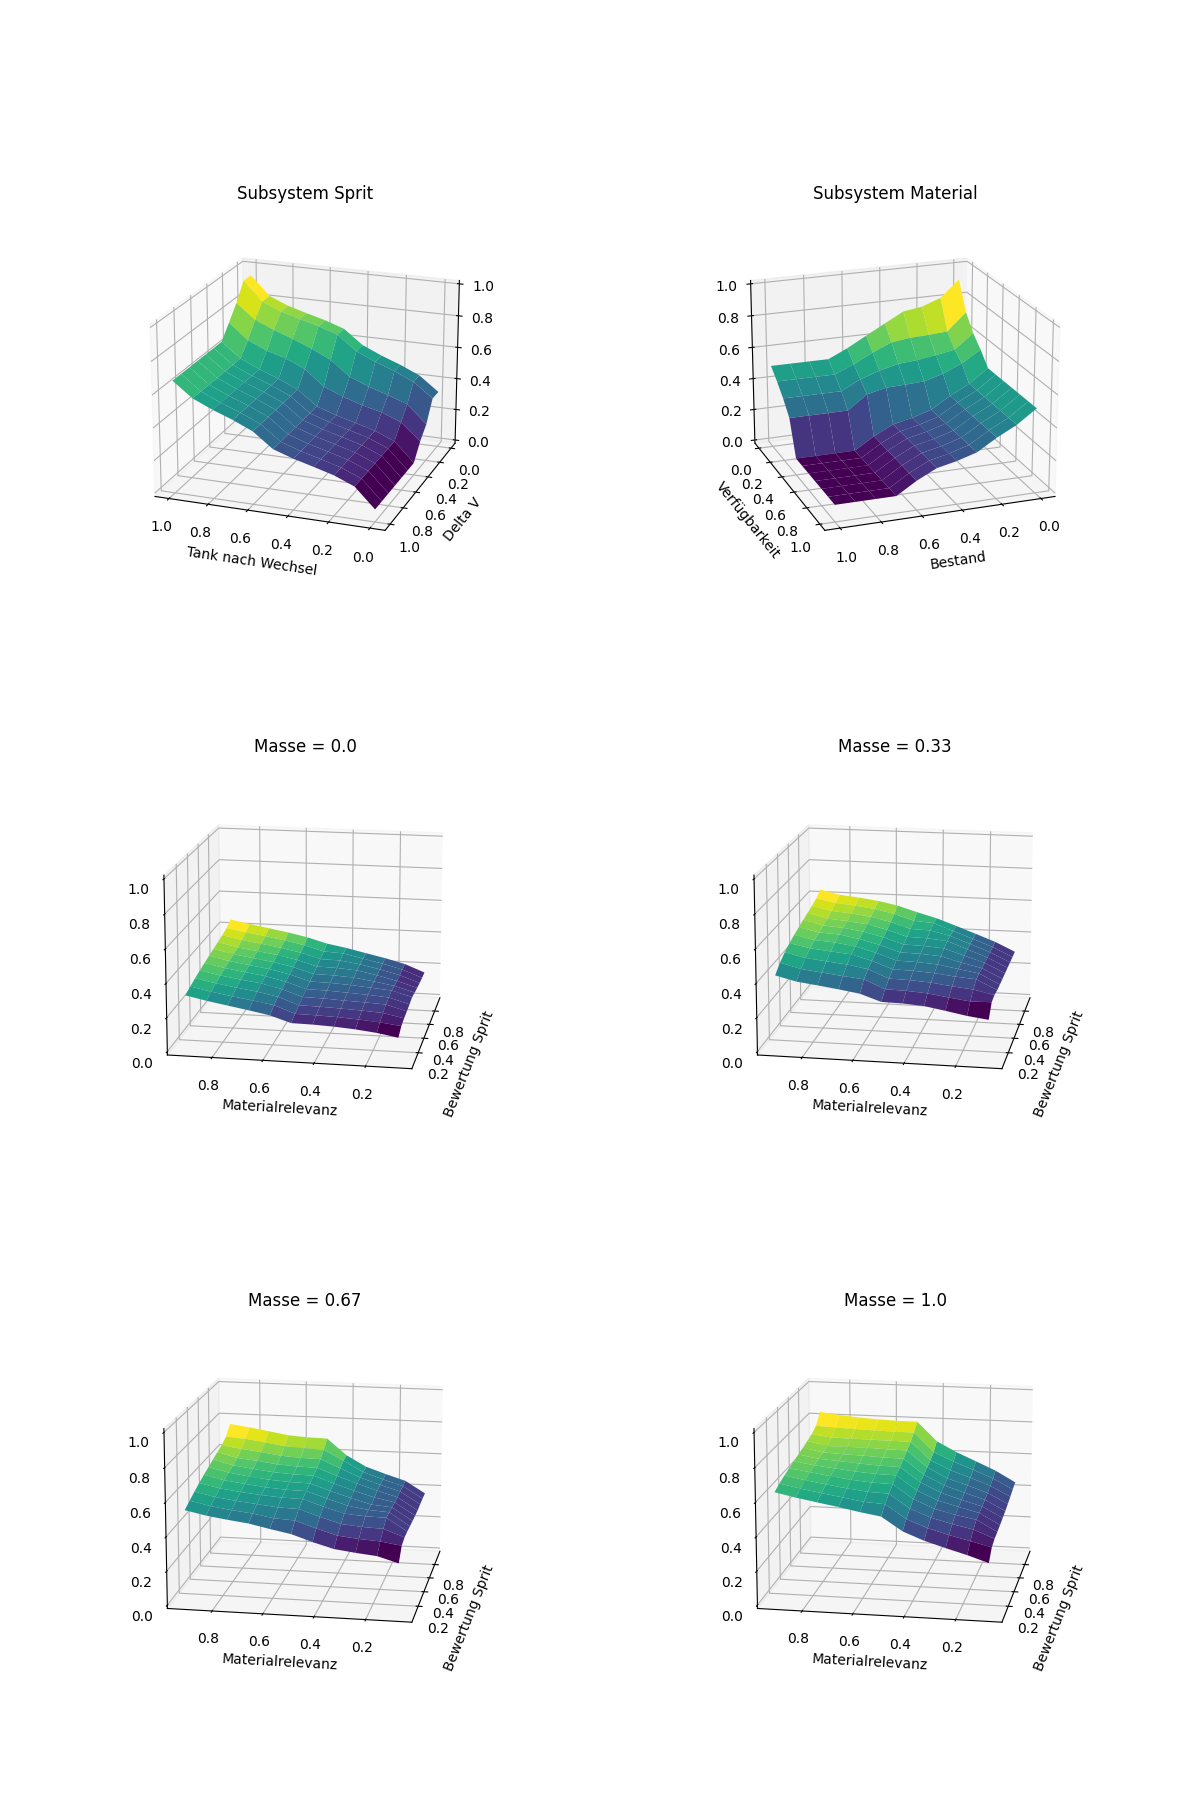
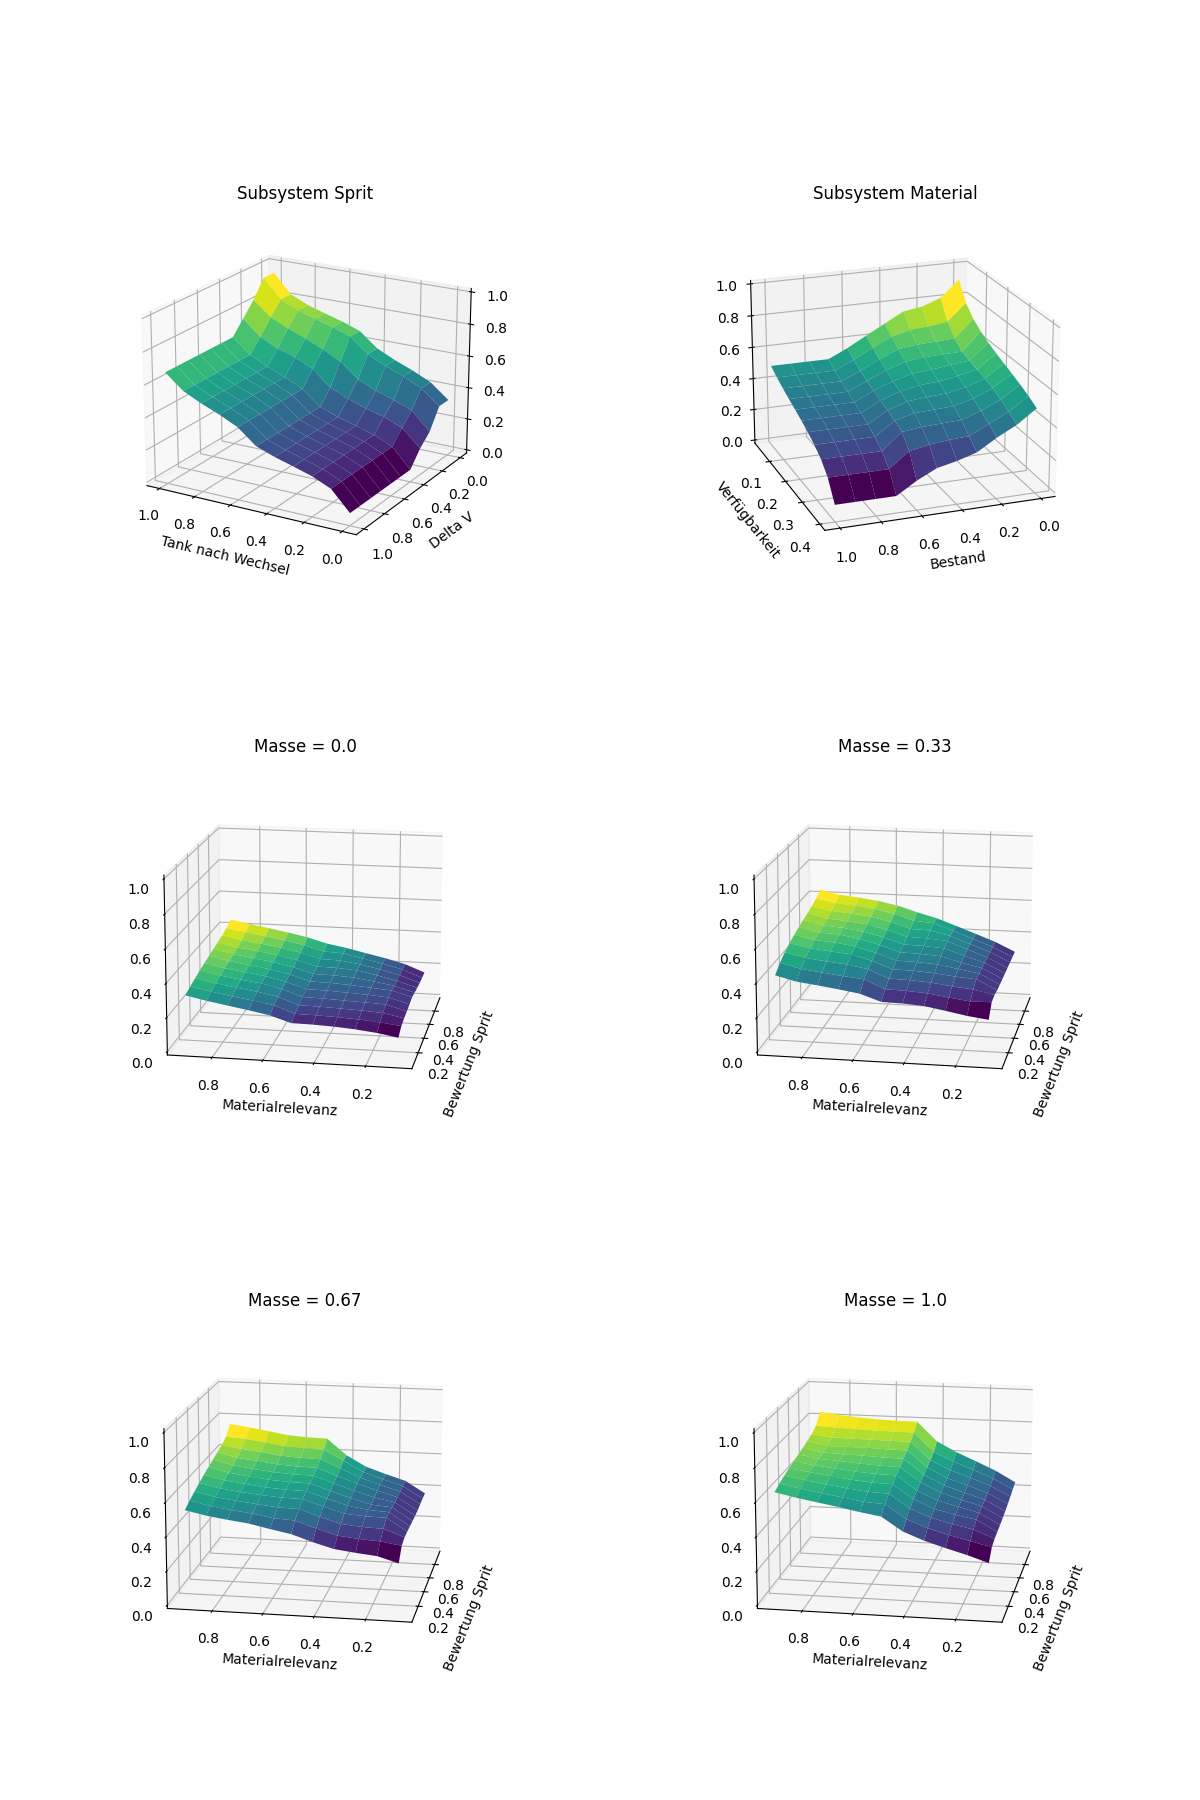
Fuzzy2 Analyse feinschliff

Changed region(s): [[0.1233, 0.1244, 0.4317, 0.3422], [0.6167, 0.1556, 0.8633, 0.3111]]

diff --git a/AndererCode/fuzzy_v2.py b/AndererCode/fuzzy_v2.py
@@ -1,5 +1,6 @@
 # ToDo
-#     - sprit ist wichtig -> spritasteroid?
+#   - sprit ist wichtig -> spritasteroid?
+#   - get_fct für Verfügbarkeit der Materialien => unteres und oberes Limit
 
 import numpy as np
 import skfuzzy as fuzz
@@ -150,7 +151,7 @@ plt.title("Subsystem Sprit")
 
 # Subsystem 2 - Material
 bes_test = np.arange(0, 1.1, 0.1)
-verf_test = np.arange(0, 1.1, 0.1)
+verf_test = np.linspace(lower, upper, 11)
 x_sub2, y_sub2 = np.meshgrid(bes_test, verf_test, indexing='ij')
 out_sub2_test = np.zeros_like(x_sub2)
 # Auswerten
@@ -226,7 +227,7 @@ for i in range(0, len(mas_test)):
 
 # Einstellung Plot Darstellung
 # Blickwinkel auf 3D-Plots
-ax1.view_init(20, 110)
+ax1.view_init(20, 120)
 ax1.set_zlim(0, 1)
 ax2.view_init(20, 70)
 ax2.set_zlim(0, 1)
